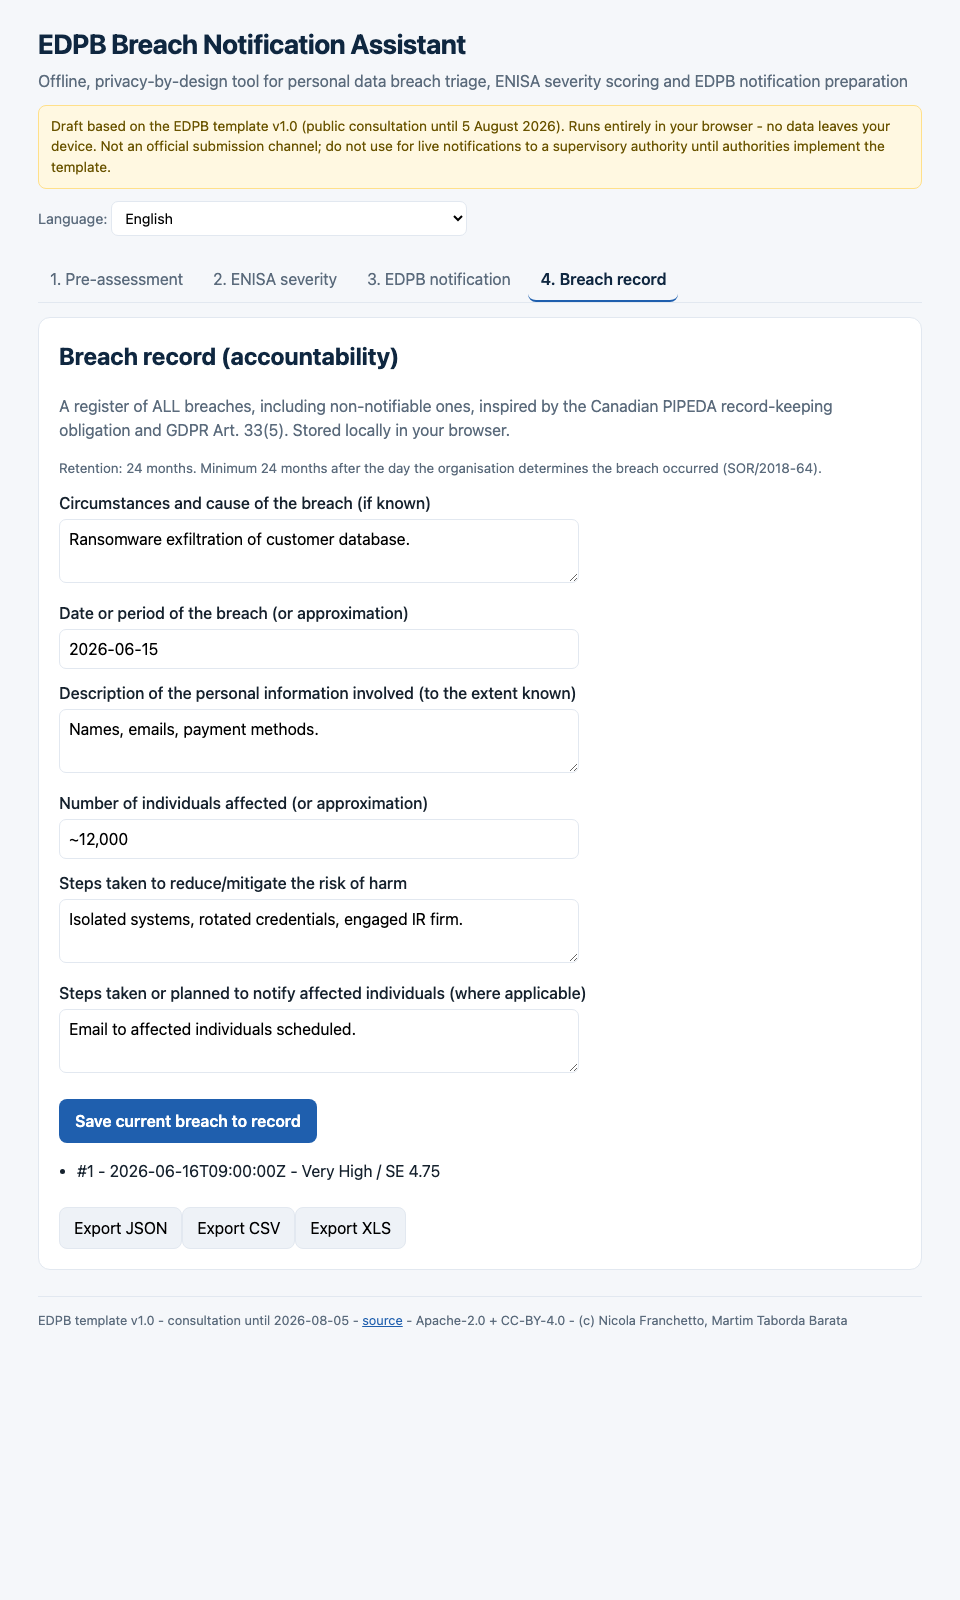
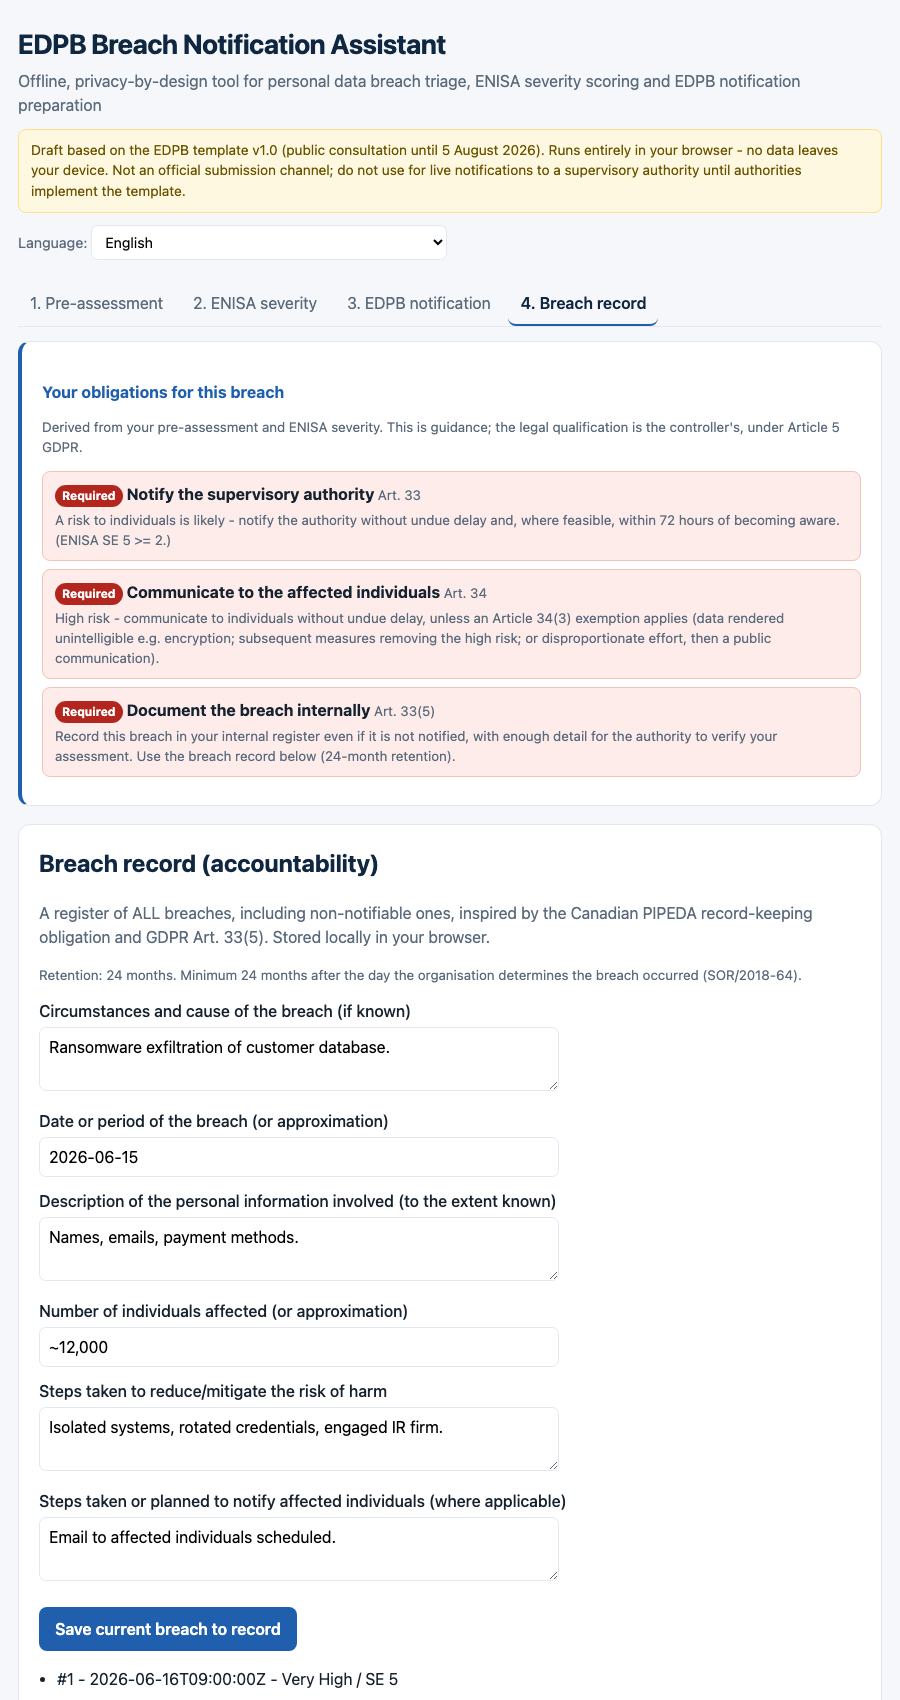
Add 'Your obligations for this breach' checklist
A read-only summary on top of the breach record that derives, from the
pre-assessment and ENISA severity already entered: whether to notify the
supervisory authority (Art. 33, within 72h of awareness), whether to communicate
to the affected individuals (Art. 34, with the Art. 34(3) exemptions), and the
always-required internal documentation (Art. 33(5)). Each item shows a status
and the article reference. No new input; closes the triage -> compute -> act loop.

diff --git a/docs/tool.html b/docs/tool.html
@@ -59,6 +59,15 @@
     .verdict.sticky { position: sticky; bottom: 8px; background: var(--card); border: 1px solid var(--line);
       border-radius: 10px; padding: 12px 14px; box-shadow: 0 2px 10px rgba(15,39,64,.08); z-index: 5; }
     .se-num { font-size: 1.25rem; }
+    .obligations { border-left: 4px solid var(--blue); }
+    .obl { padding: 10px 12px; border-radius: 8px; margin: 8px 0; border: 1px solid var(--line); }
+    .obl.yes { background: #fdecea; border-color: #f5c2bd; }
+    .obl.no { background: #eef7ee; border-color: #cfe6cf; }
+    .obl.assess { background: #fff8e1; border-color: #ffe08a; }
+    .obl-head { margin-bottom: 3px; }
+    .obl-badge { display: inline-block; font-size: .74rem; font-weight: 700; padding: 2px 7px; border-radius: 999px; color: #fff; }
+    .obl-badge.yes { background: var(--alert); } .obl-badge.no { background: var(--accent); } .obl-badge.assess { background: var(--warn); }
+    .obl-ref { font-weight: 400; }
     .stepnav { display: flex; align-items: center; justify-content: space-between; gap: 10px; margin: 4px 0 18px; }
     .stepcount { white-space: nowrap; }
     .verdict { margin-top: 14px; }
@@ -386,11 +395,47 @@ window.EBNA_I18N = {"en": {"_meta": {"lang": "en", "name": "English", "status": 
     return row;
   }
 
+  /* ---------- Obligations checklist ("Your obligations for this breach") ----------
+   * Derives the duties from data already entered (pre-assessment risk/high-risk +
+   * ENISA severity + notification fields). Read-only summary with article refs. */
+  function viewObligations() {
+    var p = state.pre || {}, sev = state.severity, n = state.form || {};
+    var card = el("div", { class: "card obligations" }, [
+      el("h3", {}, ["Your obligations for this breach"]),
+      el("p", { class: "muted small" }, ["Derived from your pre-assessment and ENISA severity. This is guidance; the legal qualification is the controller's, under Article 5 GDPR."]),
+    ]);
+    function item(state_, title, detail, ref) {
+      return el("div", { class: "obl " + state_ }, [
+        el("div", { class: "obl-head" }, [el("span", { class: "obl-badge " + state_ }, [state_ === "yes" ? "Required" : state_ === "no" ? "Not required" : "To assess"]),
+          el("b", {}, [" " + title]), el("span", { class: "obl-ref muted small" }, ["  " + ref])]),
+        el("div", { class: "muted small" }, [detail]),
+      ]);
+    }
+    // Art. 33 - notify the supervisory authority
+    var notifyAuth = (p.risk === "yes" || (sev && sev.notify)) ? "yes" : (p.risk === "no" ? "no" : "assess");
+    card.appendChild(item(notifyAuth, "Notify the supervisory authority",
+      notifyAuth === "yes" ? "A risk to individuals is likely - notify the authority without undue delay and, where feasible, within 72 hours of becoming aware." + (sev && sev.notify ? " (ENISA SE " + sev.se + " >= 2.)" : "")
+        : notifyAuth === "no" ? "No likely risk - notification is generally not required, but you must still record the breach (Art. 33(5))."
+        : "Assess the risk in step 1 (pre-assessment) / step 2 (ENISA).", "Art. 33"));
+    // Art. 34 - communicate to data subjects
+    var notifySubj = (p.highrisk === "yes") ? "yes" : (p.highrisk === "no" ? "no" : "assess");
+    card.appendChild(item(notifySubj, "Communicate to the affected individuals",
+      notifySubj === "yes" ? "High risk - communicate to individuals without undue delay, unless an Article 34(3) exemption applies (data rendered unintelligible e.g. encryption; subsequent measures removing the high risk; or disproportionate effort, then a public communication)."
+        : notifySubj === "no" ? "Not high risk - communication to individuals is generally not required."
+        : "Assess whether the breach is high risk (step 1).", "Art. 34"));
+    // Art. 33(5) - internal documentation (always)
+    card.appendChild(item("yes", "Document the breach internally",
+      "Record this breach in your internal register even if it is not notified, with enough detail for the authority to verify your assessment. Use the breach record below (24-month retention).", "Art. 33(5)"));
+    return card;
+  }
+
   /* ---------- Record-keeping (PIPEDA-style, localStorage) ---------- */
   function getRecords() {
     try { return JSON.parse(localStorage.getItem("ebna_records") || "[]"); } catch (e) { return []; }
   }
   function viewRecord() {
+    var container = el("div", {});
+    container.appendChild(viewObligations()); // "Your obligations for this breach" checklist on top
     var wrap = el("section", { class: "card" }, [
       el("h2", {}, [t("record.title")]),
       el("p", { class: "muted" }, [t("record.intro")]),
@@ -433,7 +478,8 @@ window.EBNA_I18N = {"en": {"_meta": {"lang": "en", "name": "English", "status": 
       wrap.appendChild(bar);
       wrap.appendChild(el("p", { class: "muted small" }, ["Aggregate export: anonymised counts by taxonomy, k-anonymity k=" + DATA.aggregate_transparency.k_default + " (small cells suppressed). No single-notification rows, no controller identity."]));
     }
-    return wrap;
+    container.appendChild(wrap);
+    return container;
   }
 
   /* ---------- Breach register export (Frank P8): rich record, CSV + XLS ---------- */

diff --git a/src/app.js b/src/app.js
@@ -277,11 +277,47 @@
     return row;
   }
 
+  /* ---------- Obligations checklist ("Your obligations for this breach") ----------
+   * Derives the duties from data already entered (pre-assessment risk/high-risk +
+   * ENISA severity + notification fields). Read-only summary with article refs. */
+  function viewObligations() {
+    var p = state.pre || {}, sev = state.severity, n = state.form || {};
+    var card = el("div", { class: "card obligations" }, [
+      el("h3", {}, ["Your obligations for this breach"]),
+      el("p", { class: "muted small" }, ["Derived from your pre-assessment and ENISA severity. This is guidance; the legal qualification is the controller's, under Article 5 GDPR."]),
+    ]);
+    function item(state_, title, detail, ref) {
+      return el("div", { class: "obl " + state_ }, [
+        el("div", { class: "obl-head" }, [el("span", { class: "obl-badge " + state_ }, [state_ === "yes" ? "Required" : state_ === "no" ? "Not required" : "To assess"]),
+          el("b", {}, [" " + title]), el("span", { class: "obl-ref muted small" }, ["  " + ref])]),
+        el("div", { class: "muted small" }, [detail]),
+      ]);
+    }
+    // Art. 33 - notify the supervisory authority
+    var notifyAuth = (p.risk === "yes" || (sev && sev.notify)) ? "yes" : (p.risk === "no" ? "no" : "assess");
+    card.appendChild(item(notifyAuth, "Notify the supervisory authority",
+      notifyAuth === "yes" ? "A risk to individuals is likely - notify the authority without undue delay and, where feasible, within 72 hours of becoming aware." + (sev && sev.notify ? " (ENISA SE " + sev.se + " >= 2.)" : "")
+        : notifyAuth === "no" ? "No likely risk - notification is generally not required, but you must still record the breach (Art. 33(5))."
+        : "Assess the risk in step 1 (pre-assessment) / step 2 (ENISA).", "Art. 33"));
+    // Art. 34 - communicate to data subjects
+    var notifySubj = (p.highrisk === "yes") ? "yes" : (p.highrisk === "no" ? "no" : "assess");
+    card.appendChild(item(notifySubj, "Communicate to the affected individuals",
+      notifySubj === "yes" ? "High risk - communicate to individuals without undue delay, unless an Article 34(3) exemption applies (data rendered unintelligible e.g. encryption; subsequent measures removing the high risk; or disproportionate effort, then a public communication)."
+        : notifySubj === "no" ? "Not high risk - communication to individuals is generally not required."
+        : "Assess whether the breach is high risk (step 1).", "Art. 34"));
+    // Art. 33(5) - internal documentation (always)
+    card.appendChild(item("yes", "Document the breach internally",
+      "Record this breach in your internal register even if it is not notified, with enough detail for the authority to verify your assessment. Use the breach record below (24-month retention).", "Art. 33(5)"));
+    return card;
+  }
+
   /* ---------- Record-keeping (PIPEDA-style, localStorage) ---------- */
   function getRecords() {
     try { return JSON.parse(localStorage.getItem("ebna_records") || "[]"); } catch (e) { return []; }
   }
   function viewRecord() {
+    var container = el("div", {});
+    container.appendChild(viewObligations()); // "Your obligations for this breach" checklist on top
     var wrap = el("section", { class: "card" }, [
       el("h2", {}, [t("record.title")]),
       el("p", { class: "muted" }, [t("record.intro")]),
@@ -324,7 +360,8 @@
       wrap.appendChild(bar);
       wrap.appendChild(el("p", { class: "muted small" }, ["Aggregate export: anonymised counts by taxonomy, k-anonymity k=" + DATA.aggregate_transparency.k_default + " (small cells suppressed). No single-notification rows, no controller identity."]));
     }
-    return wrap;
+    container.appendChild(wrap);
+    return container;
   }
 
   /* ---------- Breach register export (Frank P8): rich record, CSV + XLS ---------- */

diff --git a/index.html b/index.html
@@ -59,6 +59,15 @@
     .verdict.sticky { position: sticky; bottom: 8px; background: var(--card); border: 1px solid var(--line);
       border-radius: 10px; padding: 12px 14px; box-shadow: 0 2px 10px rgba(15,39,64,.08); z-index: 5; }
     .se-num { font-size: 1.25rem; }
+    .obligations { border-left: 4px solid var(--blue); }
+    .obl { padding: 10px 12px; border-radius: 8px; margin: 8px 0; border: 1px solid var(--line); }
+    .obl.yes { background: #fdecea; border-color: #f5c2bd; }
+    .obl.no { background: #eef7ee; border-color: #cfe6cf; }
+    .obl.assess { background: #fff8e1; border-color: #ffe08a; }
+    .obl-head { margin-bottom: 3px; }
+    .obl-badge { display: inline-block; font-size: .74rem; font-weight: 700; padding: 2px 7px; border-radius: 999px; color: #fff; }
+    .obl-badge.yes { background: var(--alert); } .obl-badge.no { background: var(--accent); } .obl-badge.assess { background: var(--warn); }
+    .obl-ref { font-weight: 400; }
     .stepnav { display: flex; align-items: center; justify-content: space-between; gap: 10px; margin: 4px 0 18px; }
     .stepcount { white-space: nowrap; }
     .verdict { margin-top: 14px; }